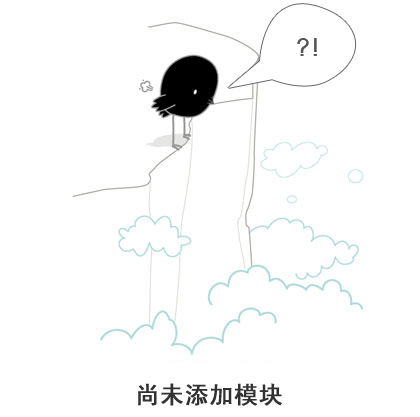
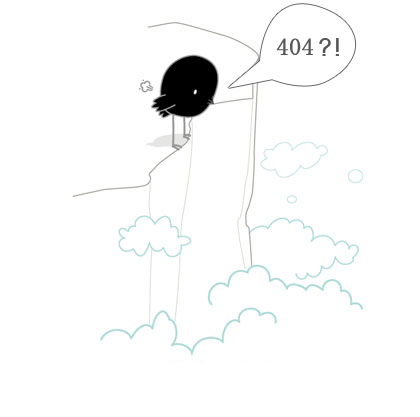
更新

Changed region(s): [[0.3095, 0.9041, 0.681, 0.9976], [0.65, 0.0935, 0.8048, 0.1559]]

diff --git a/templates/404.html b/templates/404.html
@@ -5,9 +5,20 @@
 		<title>404</title>
 		<link type="text/css" rel="stylesheet" href="/static_url/css/base.css" />
 		<style type="text/css">
+			body{background:url(/static_url/img/404.png) no-repeat center center}
+			.gohome{position:absolute;bottom:10%;left:47%}
+			.gohome a{
+				display:block;
+				background:url(/static_url/img/icon.png) no-repeat -3px 6px;
+				padding-left:24px;
+				font-size:14px;
+				color:#65769a
+			}
 		</style>
 	</head>
-	<body class="error404">
-
+	<body>
+		<div class='gohome'>
+			<a href="/blog/index/">返回首页</a>
+		</div>
 	</body>
 </html>

diff --git a/templates/add_base.html b/templates/add_base.html
@@ -12,6 +12,7 @@
 				<li {% if not operation %} class="current" {% endif %}><a href="/blog/manager/">管理首页</a></li>
 				<li {% if operation == 'add_user' %} class="current" {% endif %}><a href="/blog/manager/add_user/">添加用户</a></li>
 				<li {% if operation == 'add_article' %} class="current" {% endif %}><a href="/blog/manager/add_article/">添加文章</a></li>
+				<li style="margin-top:30px"><a href="/blog/index/">返回首页</a></li>
 			</ul>
 		</div>
 		<div class="wrapper">

diff --git a/templates/details.html b/templates/details.html
@@ -33,7 +33,7 @@
 				<li class="empty_replay">暂无评论</li>
 			{% endif %}
 		</ul>
-		<form action="" method="post">
+		<form action="" method="post" id="replay_form">
 			<div class="replay forms">
 				<h3 class="tit">发表评论:</h3>
 				<p><label>名称:</label>{{form.name}}{%  if form.errors.name %}<span class="errors">{{form.errors.name}}</span>{% endif %}</p>

diff --git a/static/css/base.css b/static/css/base.css
@@ -411,10 +411,7 @@ ul.replay_list li p{
 	width:24px;
 	height:24px;
 	left:168px;
-	background:url(../img/icon.png) no-repeat center -64px
-}
-.error404{
-	background:url(../img/404.png) no-repeat center center
+	background:url(/static_url/img/icon.png) no-repeat center -64px
 }
 /*
  *#minator{

diff --git a/static/js/base.js b/static/js/base.js
@@ -12,4 +12,10 @@ $(document).ready(function(){
 			}
 		}
 	}
+	$("#replay_form").submit(function(){
+		if($("#id_name").val().length ==0 || $("#id_message").val().length == 0){
+			alert("名称和内容是必填项!")
+			return false
+		}
+	})
 });

diff --git a/view.py b/view.py
@@ -41,7 +41,7 @@ def index(request,name="",arid="",template_name="index.html"):
 				cont = form.cleaned_data
 				cont['article_id'] = details.id
 				Replays(name=cont['name'],message=cont['message'],article_id=cont['article_id'],email=cont['email']).save()
-				return HttpResponseRedirect("/blog/" + name +"/" + arid + "/")
+				return HttpResponseRedirect("/blog/" + name +"/" + str(arid) + "/")
 			if form['name'].errors:
 				form.errors['name'] = '姓名不能为空!'
 			if form['email'].errors:
@@ -80,6 +80,7 @@ def admin(request):
 				else:
 					if rightpwd == md5(pwd).hexdigest():
 						request.session['username'] = usm
+						request.session.set_expiry(0)
 						return HttpResponseRedirect('/blog/manager/')
 					else:
 						ptips = '密码错误!'

diff --git a/settings.py b/settings.py
@@ -1,5 +1,5 @@
 # Django settings for blog project.
-DEBUG = True
+DEBUG = False
 TEMPLATE_DEBUG = DEBUG
 
 ADMINS = (
